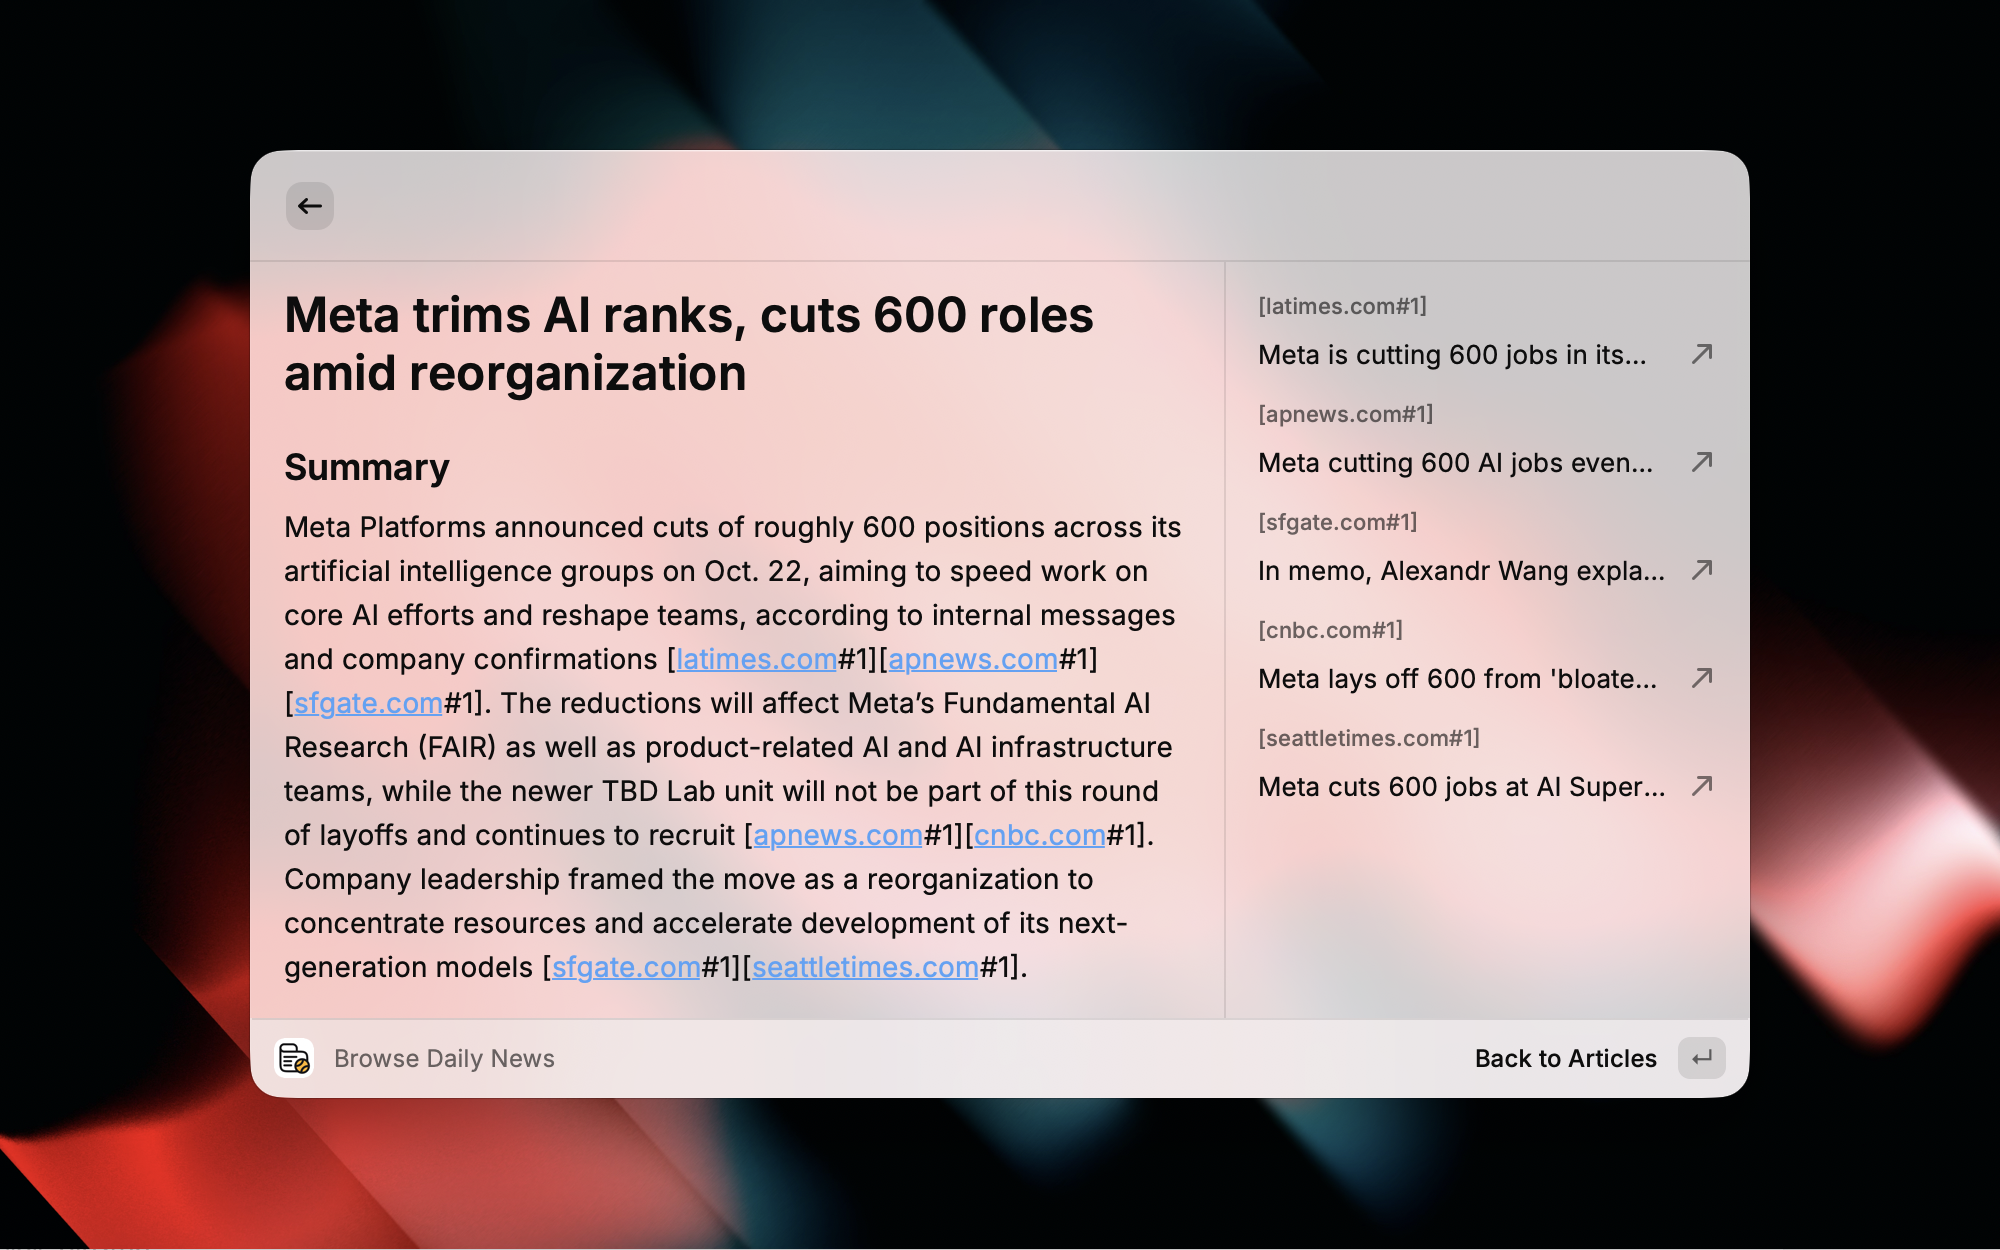
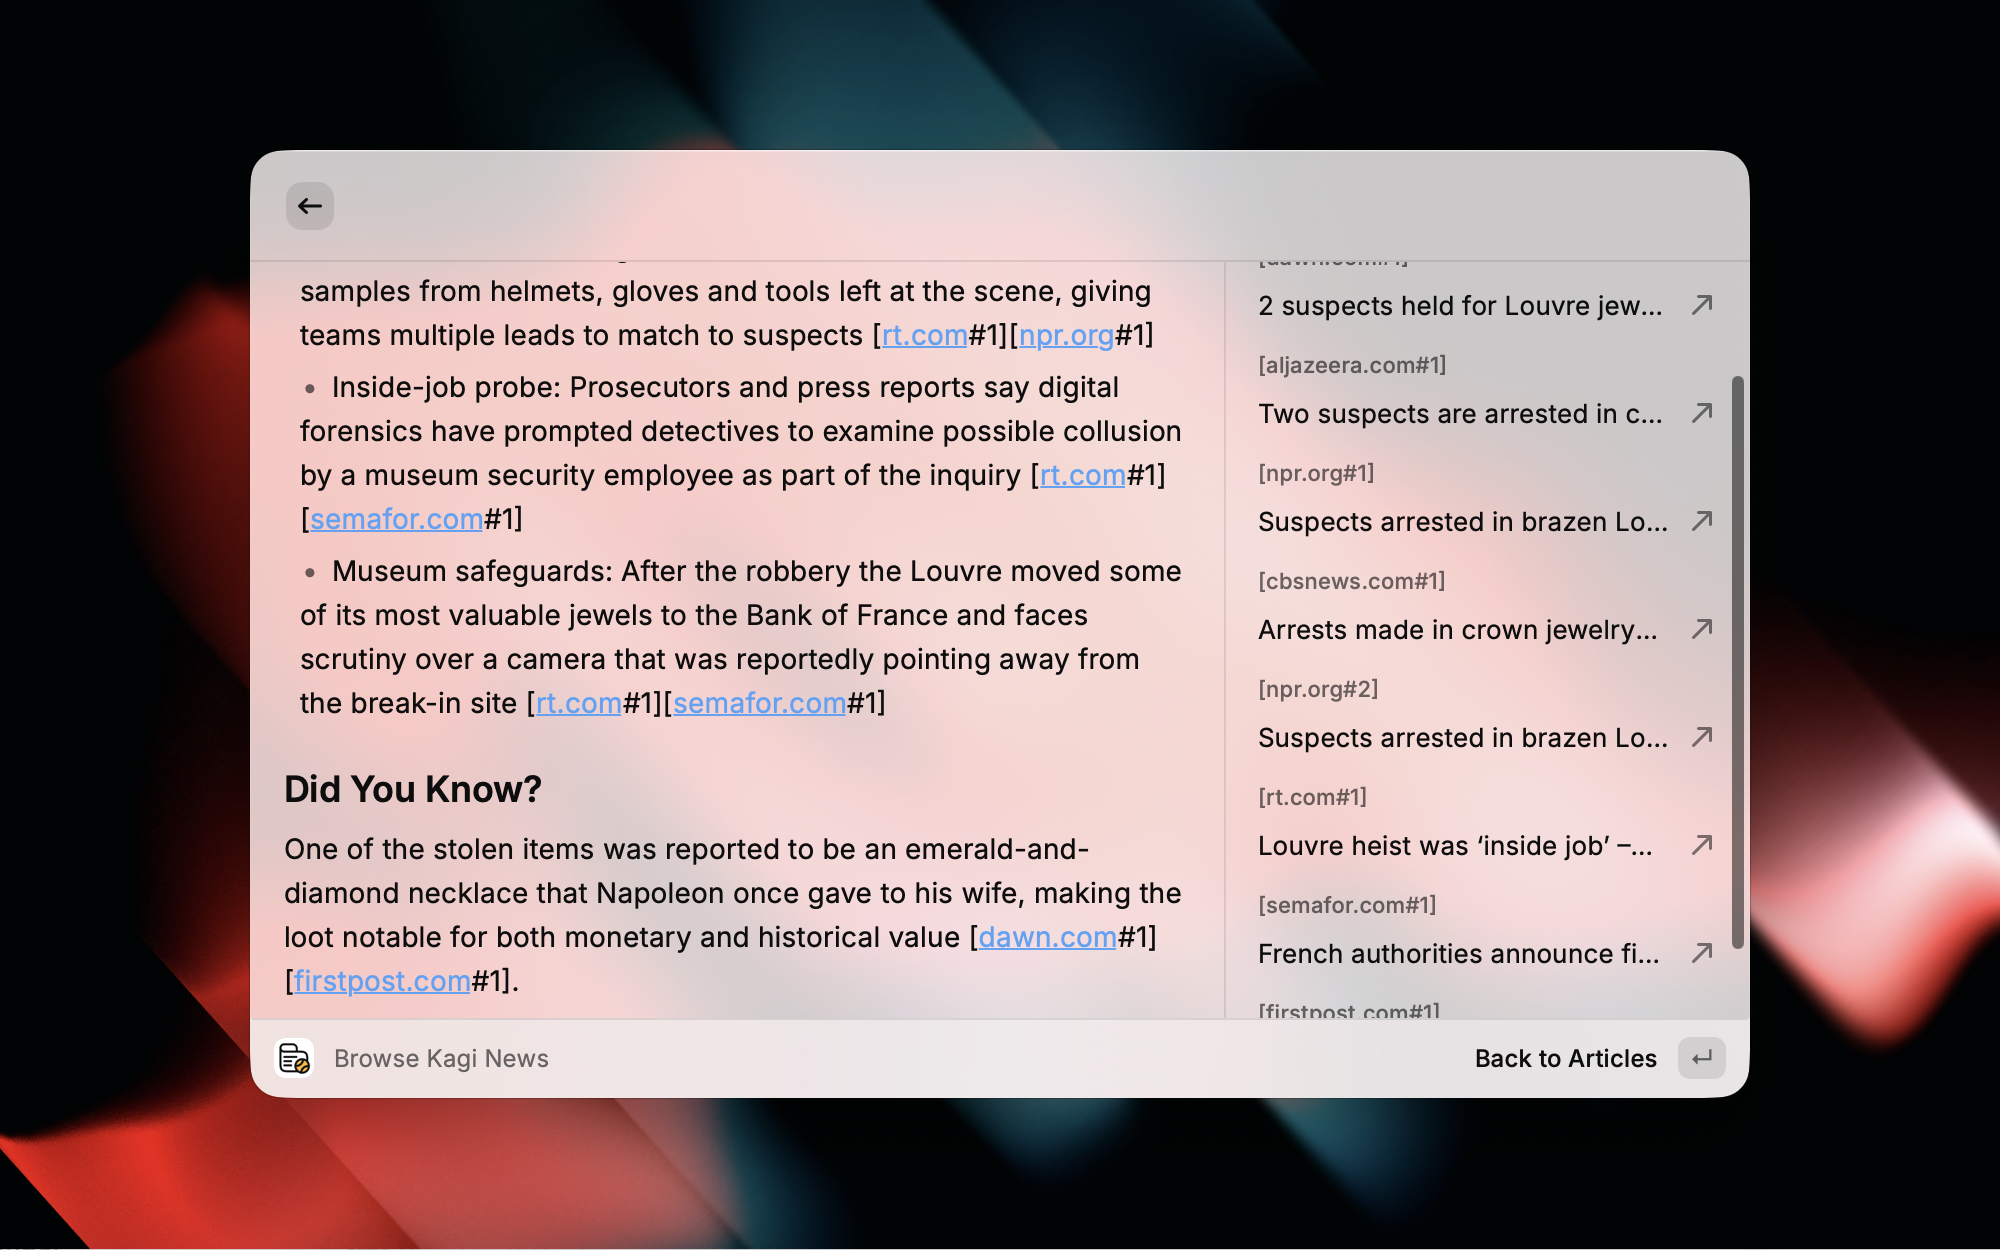
Add files via upload

diff --git a/src/kagi-news.tsx b/src/kagi-news.tsx
@@ -2,8 +2,15 @@ import { List, Detail, Action, ActionPanel, Icon, getPreferenceValues } from "@r
 import { useCachedState } from "@raycast/utils";
 import { useState, useEffect } from "react";
 
+// ============================================================================
+// Types & Interfaces
+// ============================================================================
+
 interface Preferences {
   language: string;
+  showImages: boolean;
+  showTalkingPoints: boolean;
+  showDidYouKnow: boolean;
 }
 
 interface Category {
@@ -21,6 +28,11 @@ interface ClusterArticle {
   link: string;
 }
 
+interface ImageData {
+  url: string;
+  link?: string;
+}
+
 interface Cluster {
   cluster_number: number;
   title: string;
@@ -30,6 +42,7 @@ interface Cluster {
   did_you_know?: string;
   emoji?: string;
   category: string;
+  primary_image?: ImageData;
 }
 
 interface Article {
@@ -41,6 +54,7 @@ interface Article {
   didYouKnow?: string;
   emoji?: string;
   category: string;
+  primary_image?: ImageData;
 }
 
 interface CategoryResponse {
@@ -66,8 +80,16 @@ interface KiteResponse {
   timestamp?: number;
 }
 
+// ============================================================================
+// Constants
+// ============================================================================
+
 const CATEGORIES_URL = "https://kite.kagi.com/kite.json";
 const NEWS_BASE_URL = "https://news.kagi.com";
+
+// ============================================================================
+// Helper Functions
+// ============================================================================
 
 function getDomain(url: string): string {
   try {
@@ -75,6 +97,17 @@ function getDomain(url: string): string {
     return domain.replace("www.", "");
   } catch {
     return url;
+  }
+}
+
+function domainMatches(sourceUrl: string, referenceDomain: string): boolean {
+  try {
+    const sourceDomain = getDomain(sourceUrl);
+    if (sourceDomain === referenceDomain) return true;
+    if (sourceDomain.endsWith(`.${referenceDomain}`)) return true;
+    return false;
+  } catch {
+    return false;
   }
 }
 
@@ -103,9 +136,14 @@ function clustersToArticles(clusters: Cluster[]): Article[] {
       didYouKnow: cluster.did_you_know,
       emoji: cluster.emoji,
       category: cluster.category,
+      primary_image: cluster.primary_image,
     };
   });
 }
+
+// ============================================================================
+// Custom Hooks
+// ============================================================================
 
 function useCategoryFeed(categoryFile: string, language: string) {
   const [articles, setArticles] = useState<Article[]>([]);
@@ -133,10 +171,8 @@ function useCategoryFeed(categoryFile: string, language: string) {
         if (categoryFile === "onthisday.json") {
           setIsOnThisDay(true);
           const allEvents = (data as OnThisDayResponse).events || [];
-
           const eventsList = allEvents.filter((e) => e.type === "event").sort((a, b) => a.sort_year - b.sort_year);
           const peopleList = allEvents.filter((e) => e.type === "people").sort((a, b) => a.sort_year - b.sort_year);
-
           setEvents([...eventsList, ...peopleList]);
           setArticles([]);
         } else {
@@ -157,6 +193,10 @@ function useCategoryFeed(categoryFile: string, language: string) {
 
   return { articles, events, isLoading, error, isOnThisDay };
 }
+
+// ============================================================================
+// Main Component
+// ============================================================================
 
 export default function Command() {
   const preferences = getPreferenceValues<Preferences>();
@@ -193,6 +233,7 @@ export default function Command() {
     isOnThisDay,
   } = useCategoryFeed(selectedCategory, preferences.language);
 
+  // Event Detail View
   if (selectedEvent) {
     const markdown = `# ${selectedEvent.year}\n\n${stripHtml(selectedEvent.content)}`;
 
@@ -213,20 +254,27 @@ export default function Command() {
     );
   }
 
+  // Article Detail View
   if (selectedArticle) {
     const sources = selectedArticle.sources || [];
     const highlights = selectedArticle.highlights || [];
 
-    let markdown = `# ${selectedArticle.title}\n\n## Summary\n${selectedArticle.summary}`;
+    let markdown = `# ${selectedArticle.title}\n\n`;
 
-    if (highlights.length > 0) {
+    if (preferences.showImages && selectedArticle.primary_image?.url) {
+      markdown += `![](${selectedArticle.primary_image.url})\n\n`;
+    }
+
+    markdown += `## Summary\n${selectedArticle.summary}`;
+
+    if (preferences.showTalkingPoints && highlights.length > 0) {
       markdown += `\n\n## Talking Points\n`;
       highlights.forEach((highlight) => {
         markdown += `- ${highlight}\n`;
       });
     }
 
-    if (selectedArticle.didYouKnow) {
+    if (preferences.showDidYouKnow && selectedArticle.didYouKnow) {
       markdown += `\n\n## Did You Know?\n${selectedArticle.didYouKnow}`;
     }
 
@@ -239,8 +287,8 @@ export default function Command() {
       const domain = match[1];
       const num = parseInt(match[2], 10);
       const key = `${domain}#${num}`;
+      const source = sources.find((s) => domainMatches(s.url, domain));
 
-      const source = sources.find((s) => getDomain(s.url) === domain);
       if (source && !referencedSources.has(key)) {
         referencedSources.set(key, source);
       }
@@ -267,6 +315,7 @@ export default function Command() {
     );
   }
 
+  // Main List View
   return (
     <List
       isLoading={loadingCategories || loadingContent}

diff --git a/raycast-env.d.ts b/raycast-env.d.ts
@@ -9,7 +9,13 @@
 
 type ExtensionPreferences = {
   /** Language - Article language */
-  "language": "default" | "en" | "es" | "fr" | "de" | "it" | "pt" | "pt-BR" | "ja" | "ko" | "zh-Hans" | "zh-Hant" | "nl" | "pl" | "ru" | "sv" | "fi" | "nb" | "tr" | "th" | "uk" | "ca" | "hi" | "ar" | "he" | "lb"
+  "language": "default" | "en" | "es" | "fr" | "de" | "it" | "pt" | "pt-BR" | "ja" | "ko" | "zh-Hans" | "zh-Hant" | "nl" | "pl" | "ru" | "sv" | "fi" | "nb" | "tr" | "th" | "uk" | "ca" | "hi" | "ar" | "he" | "lb",
+  /** More Options - Display the article 'primary image' */
+  "showImages": boolean,
+  /** undefined - Display the 'Talking Points' section */
+  "showTalkingPoints": boolean,
+  /** undefined - Display the 'Did You Know' section */
+  "showDidYouKnow": boolean
 }
 
 /** Preferences accessible in all the extension's commands */

diff --git a/README.md b/README.md
@@ -1,27 +1,15 @@
-<div align="center">
-<img src="assets/extension-icon.png" width="200" alt="Browse Categories" />
-</div>
+# Kagi News
 
-# Kagi News for Raycast
-Browse news articles and sources from Kagi News directly within Raycast.
-
-## Screenshots
-<div align="center">
-  <img src="metadata/kagi-news-1.png" width="300" alt="Browse Categories" />
-  <img src="metadata/kagi-news-2.png" width="300" alt="Article Details" />
-  <img src="metadata/kagi-news-3.png" width="300" alt="Article Summary" />
-</div>
+Browse news articles and sources from Kagi News.
 
 ## Features
-- 🌍 **80+ news categories** - World, Technology, Science, Business, Entertainment, and more
-- 📰 **Article summaries** - Get talking points and key facts at a glance
-- 📅 **Historical events** - Explore what happened on this day with the OnThisDay category
-- 🌐 **25+ language support** - Read news in your preferred language
-- 🔗 **Clickable source references** - Access original sources directly
 
-## Installation
-This extension will soon be available in the Raycast Store. Search for "Kagi News" to install it.
+- 80+ news categories (World, Technology, Science, etc.)
+- Article summaries with talking points and facts
+- Historical events via OnThisDay category
+- 25+ language support
+- Clickable source references
 
-## Acknowledgments
-- https://github.com/kagisearch/kite-public
-- https://github.com/raycast/extensions
+## Usage
+
+Open Raycast, type "Kagi News", select a category, and browse articles.

diff --git a/CHANGELOG.md b/CHANGELOG.md
@@ -1,6 +1,15 @@
 # Kagi News Changelog
 
-## [Initial Version] - {PR_MERGE_DATE}
+## [1.1.0] - 2025-10-27
+
+### Added
+
+- Primary image display in article detail view
+- Added preferences to toggle article images, talking points, and did you know sections
+- Fixed missing source links in article metadata by improving subdomain matching for references
+- Code comments for better maintainability
+
+## [1.0.0] - {PENDING_APPROVAL}
 
 - Browse curated news articles from Kagi News across 80+ categories
 - Article detail view with summary, talking points, and "Did You Know" facts
